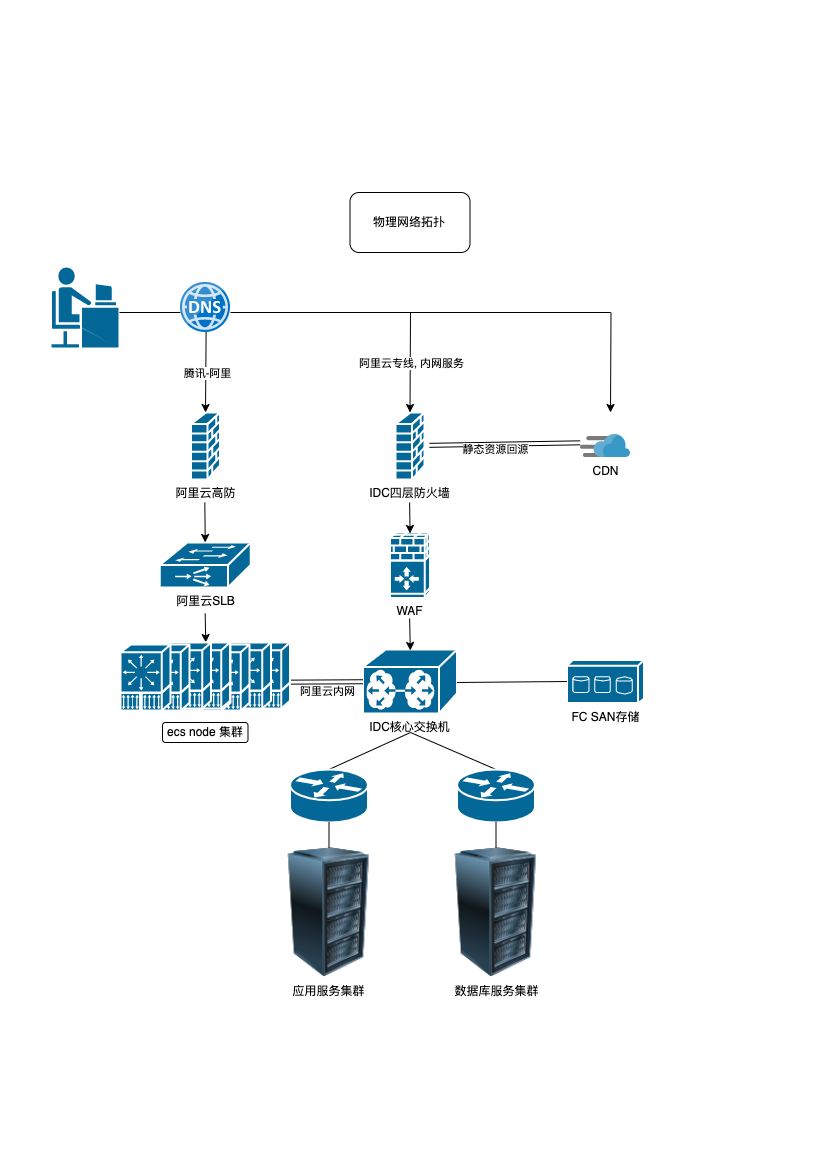
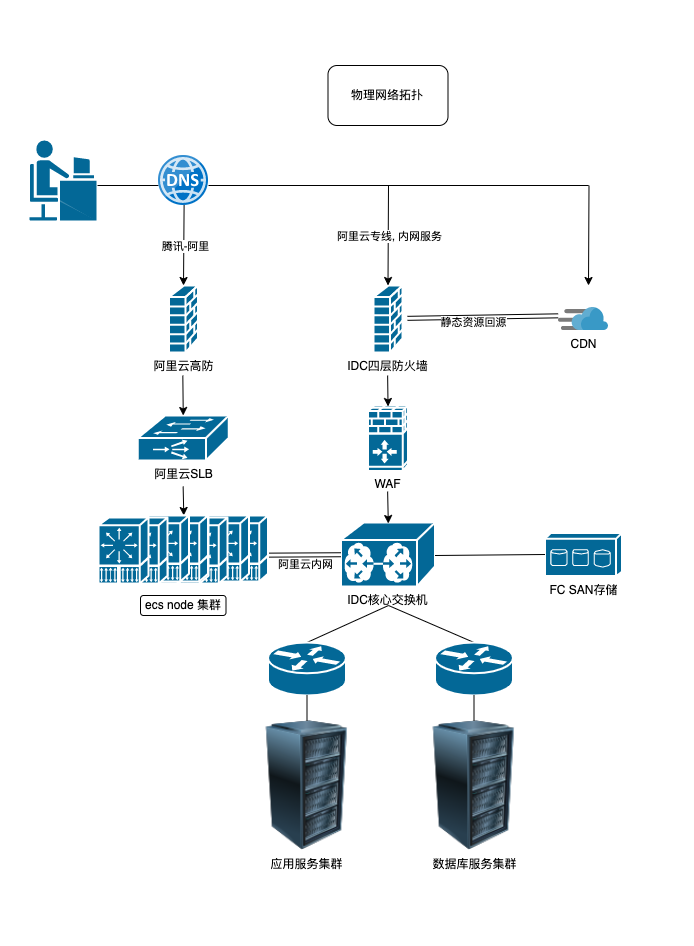
2022

diff --git a/js/index.min.js b/js/index.min.js
@@ -1,1 +1,1 @@
-window.mobilecheck=function(){var check=false;(function(a,b){if(/(android|bb\d+|meego).+mobile|avantgo|bada\/|blackberry|blazer|compal|elaine|fennec|hiptop|iemobile|ip(hone|od)|iris|kindle|lge |maemo|midp|mmp|mobile.+firefox|netfront|opera m(ob|in)i|palm( os)?|phone|p(ixi|re)\/|plucker|pocket|psp|series(4|6)0|symbian|treo|up\.(browser|link)|vodafone|wap|windows ce|xda|xiino/i.test(a)||/1207|6310|6590|3gso|4thp|50[1-6]i|770s|802s|a wa|abac|ac(er|oo|s\-)|ai(ko|rn)|al(av|ca|co)|amoi|an(ex|ny|yw)|aptu|ar(ch|go)|as(te|us)|attw|au(di|\-m|r |s )|avan|be(ck|ll|nq)|bi(lb|rd)|bl(ac|az)|br(e|v)w|bumb|bw\-(n|u)|c55\/|capi|ccwa|cdm\-|cell|chtm|cldc|cmd\-|co(mp|nd)|craw|da(it|ll|ng)|dbte|dc\-s|devi|dica|dmob|do(c|p)o|ds(12|\-d)|el(49|ai)|em(l2|ul)|er(ic|k0)|esl8|ez([4-7]0|os|wa|ze)|fetc|fly(\-|_)|g1 u|g560|gene|gf\-5|g\-mo|go(\.w|od)|gr(ad|un)|haie|hcit|hd\-(m|p|t)|hei\-|hi(pt|ta)|hp( i|ip)|hs\-c|ht(c(\-| |_|a|g|p|s|t)|tp)|hu(aw|tc)|i\-(20|go|ma)|i230|iac( |\-|\/)|ibro|idea|ig01|ikom|im1k|inno|ipaq|iris|ja(t|v)a|jbro|jemu|jigs|kddi|keji|kgt( |\/)|klon|kpt |kwc\-|kyo(c|k)|le(no|xi)|lg( g|\/(k|l|u)|50|54|\-[a-w])|libw|lynx|m1\-w|m3ga|m50\/|ma(te|ui|xo)|mc(01|21|ca)|m\-cr|me(rc|ri)|mi(o8|oa|ts)|mmef|mo(01|02|bi|de|do|t(\-| |o|v)|zz)|mt(50|p1|v )|mwbp|mywa|n10[0-2]|n20[2-3]|n30(0|2)|n50(0|2|5)|n7(0(0|1)|10)|ne((c|m)\-|on|tf|wf|wg|wt)|nok(6|i)|nzph|o2im|op(ti|wv)|oran|owg1|p800|pan(a|d|t)|pdxg|pg(13|\-([1-8]|c))|phil|pire|pl(ay|uc)|pn\-2|po(ck|rt|se)|prox|psio|pt\-g|qa\-a|qc(07|12|21|32|60|\-[2-7]|i\-)|qtek|r380|r600|raks|rim9|ro(ve|zo)|s55\/|sa(ge|ma|mm|ms|ny|va)|sc(01|h\-|oo|p\-)|sdk\/|se(c(\-|0|1)|47|mc|nd|ri)|sgh\-|shar|sie(\-|m)|sk\-0|sl(45|id)|sm(al|ar|b3|it|t5)|so(ft|ny)|sp(01|h\-|v\-|v )|sy(01|mb)|t2(18|50)|t6(00|10|18)|ta(gt|lk)|tcl\-|tdg\-|tel(i|m)|tim\-|t\-mo|to(pl|sh)|ts(70|m\-|m3|m5)|tx\-9|up(\.b|g1|si)|utst|v400|v750|veri|vi(rg|te)|vk(40|5[0-3]|\-v)|vm40|voda|vulc|vx(52|53|60|61|70|80|81|83|85|98)|w3c(\-| )|webc|whit|wi(g |nc|nw)|wmlb|wonu|x700|yas\-|your|zeto|zte\-/i.test(a.substr(0,4))){check=true}})(navigator.userAgent||navigator.vendor||window.opera);return check};$(document).ready(function(){if(mobilecheck()){$("html").addClass("mobile");$(".tag-panel").addClass("center")}else{var en=["Home","Work Experience","Open source project","Solve difficult problems","Independently completed architecture deployment","Contact Me"];var cn=["首页","工作经历","开源项目","解决的疑难问题","独立完成的架构部署","联系"];var isCn=window.location.href.indexOf("cn.html")>=0;$(".section").addClass("initing");$("#pagepiling").pagepiling({loopBottom:true,navigation:{"position":"left","tooltips":isCn?cn:en},onLeave:function(index,nextIndex,direction){var $pages=$(".section");for(var i=0;i<$pages.length;++i){if(i+1!==nextIndex){$($pages[i]).addClass("leaving")}else{$($pages[i]).removeClass("leaving")}}}});$(".initing").removeClass("initing")}});
+window.mobilecheck=function(){var check=false;(function(a,b){if(/(android|bb\d+|meego).+mobile|avantgo|bada\/|blackberry|blazer|compal|elaine|fennec|hiptop|iemobile|ip(hone|od)|iris|kindle|lge |maemo|midp|mmp|mobile.+firefox|netfront|opera m(ob|in)i|palm( os)?|phone|p(ixi|re)\/|plucker|pocket|psp|series(4|6)0|symbian|treo|up\.(browser|link)|vodafone|wap|windows ce|xda|xiino/i.test(a)||/1207|6310|6590|3gso|4thp|50[1-6]i|770s|802s|a wa|abac|ac(er|oo|s\-)|ai(ko|rn)|al(av|ca|co)|amoi|an(ex|ny|yw)|aptu|ar(ch|go)|as(te|us)|attw|au(di|\-m|r |s )|avan|be(ck|ll|nq)|bi(lb|rd)|bl(ac|az)|br(e|v)w|bumb|bw\-(n|u)|c55\/|capi|ccwa|cdm\-|cell|chtm|cldc|cmd\-|co(mp|nd)|craw|da(it|ll|ng)|dbte|dc\-s|devi|dica|dmob|do(c|p)o|ds(12|\-d)|el(49|ai)|em(l2|ul)|er(ic|k0)|esl8|ez([4-7]0|os|wa|ze)|fetc|fly(\-|_)|g1 u|g560|gene|gf\-5|g\-mo|go(\.w|od)|gr(ad|un)|haie|hcit|hd\-(m|p|t)|hei\-|hi(pt|ta)|hp( i|ip)|hs\-c|ht(c(\-| |_|a|g|p|s|t)|tp)|hu(aw|tc)|i\-(20|go|ma)|i230|iac( |\-|\/)|ibro|idea|ig01|ikom|im1k|inno|ipaq|iris|ja(t|v)a|jbro|jemu|jigs|kddi|keji|kgt( |\/)|klon|kpt |kwc\-|kyo(c|k)|le(no|xi)|lg( g|\/(k|l|u)|50|54|\-[a-w])|libw|lynx|m1\-w|m3ga|m50\/|ma(te|ui|xo)|mc(01|21|ca)|m\-cr|me(rc|ri)|mi(o8|oa|ts)|mmef|mo(01|02|bi|de|do|t(\-| |o|v)|zz)|mt(50|p1|v )|mwbp|mywa|n10[0-2]|n20[2-3]|n30(0|2)|n50(0|2|5)|n7(0(0|1)|10)|ne((c|m)\-|on|tf|wf|wg|wt)|nok(6|i)|nzph|o2im|op(ti|wv)|oran|owg1|p800|pan(a|d|t)|pdxg|pg(13|\-([1-8]|c))|phil|pire|pl(ay|uc)|pn\-2|po(ck|rt|se)|prox|psio|pt\-g|qa\-a|qc(07|12|21|32|60|\-[2-7]|i\-)|qtek|r380|r600|raks|rim9|ro(ve|zo)|s55\/|sa(ge|ma|mm|ms|ny|va)|sc(01|h\-|oo|p\-)|sdk\/|se(c(\-|0|1)|47|mc|nd|ri)|sgh\-|shar|sie(\-|m)|sk\-0|sl(45|id)|sm(al|ar|b3|it|t5)|so(ft|ny)|sp(01|h\-|v\-|v )|sy(01|mb)|t2(18|50)|t6(00|10|18)|ta(gt|lk)|tcl\-|tdg\-|tel(i|m)|tim\-|t\-mo|to(pl|sh)|ts(70|m\-|m3|m5)|tx\-9|up(\.b|g1|si)|utst|v400|v750|veri|vi(rg|te)|vk(40|5[0-3]|\-v)|vm40|voda|vulc|vx(52|53|60|61|70|80|81|83|85|98)|w3c(\-| )|webc|whit|wi(g |nc|nw)|wmlb|wonu|x700|yas\-|your|zeto|zte\-/i.test(a.substr(0,4))){check=true}})(navigator.userAgent||navigator.vendor||window.opera);return check};$(document).ready(function(){if(mobilecheck()){$("html").addClass("mobile");$(".tag-panel").addClass("center")}else{var en=["Home","Work Experience","Open source project","Solve difficult problems","Distributed architecture completed independently in 2019","Physical topology of highly available distributed architecture in 2022","Logic topology of highly available distributed architecture in 2022","Contact Me"];var cn=["首页","工作经历","开源项目","解决的疑难问题","2019年独立完成的分布式架构","2022年高可用分布式架构物理拓扑图","2022年高可用分布式架构逻辑拓扑图", "联系"];var isCn=window.location.href.indexOf("cn.html")>=0;$(".section").addClass("initing");$("#pagepiling").pagepiling({loopBottom:true,navigation:{"position":"left","tooltips":isCn?cn:en},onLeave:function(index,nextIndex,direction){var $pages=$(".section");for(var i=0;i<$pages.length;++i){if(i+1!==nextIndex){$($pages[i]).addClass("leaving")}else{$($pages[i]).removeClass("leaving")}}}});$(".initing").removeClass("initing")}});

diff --git a/index.html b/index.html
@@ -59,7 +59,6 @@
                 <p>2020.6 - 2022.6</p>
                 <p>Technology Stack：PHP, Golang, Lua, JS, Nginx, Openresty, VeryNginx, Dokcer, Dokcer-compose, Compose, Git, Gitlab, Gitlab-runner, Xhprof, Xhgui, Elasticsearch, Filebate, Grafana, Mysql, Redis, Memcached, Beanstalkd, Supervisord, Etcd, Mongodb, Go-cache, BigCache, Beego, Gin, Gin-vue-admin, Gorm, Kafka, Zabbix, GRPC, Proto, PProf, Consul, Nacos</p>
 
-                <h1>Work Experience</h1>
                 <h4>Hang Zhou Tian Zuan</h4>
                 <h3>Technical Director</h3>
                 <p>2018.11 - 2020.6</p>
@@ -159,7 +158,7 @@
             <div class="section center" style="vertical-align:auto;">
                 <h1>Physical topology of highly available distributed architecture in 2022</h1>
                 <!-- <img src="img/physical network topology.png?1" height="45%" width="60%"  class="smallimg" /> -->
-                <img src="https://pic.imgdb.cn/item/6306134816f2c2beb1addb29.png" height="45%" width="45%"  class="smallimg" />
+                <img src="https://pic.imgdb.cn/item/6306193816f2c2beb1b26c76.png" height="45%" width="45%"  class="smallimg" />
             </div>
 
             <div class="section center" style="vertical-align:auto;">

diff --git a/cn.html b/cn.html
@@ -60,7 +60,6 @@
                 <p>2020.6 - 2022.6<p>
                 <p>技术栈：PHP, Golang, Lua, JS, Nginx, Openresty, VeryNginx, Dokcer, Dokcer-compose, Compose, Git, Gitlab, Gitlab-runner, Xhprof, Xhgui, Elasticsearch, Filebate, Grafana, Mysql, Redis, Memcached, Beanstalkd, Supervisord, Etcd, Mongodb, Go-cache, BigCache, Beego, Gin, Gin-vue-admin, Gorm, Kafka, Zabbix, GRPC, Proto, PProf, Consul, Nacos</p>
 
-                <h1>工作经历</h1>
                 <h4>杭州天钻网络</h4>
                 <h3>技术总监</h3>
                 <p>2018.11 - 2020.6</p>
@@ -159,7 +158,7 @@
             <div class="section center" style="vertical-align:auto;">
                 <h1>2022年高可用分布式架构物理拓扑图</h1>
                 <!-- <img src="img/physical network topology.png?1" height="45%" width="60%"  class="smallimg" /> -->
-                <img src="https://pic.imgdb.cn/item/6306134816f2c2beb1addb29.png" height="45%" width="45%"  class="smallimg" />
+                <img src="https://pic.imgdb.cn/item/6306193816f2c2beb1b26c76.png" height="45%" width="45%"  class="smallimg" />
             </div>
 
             <div class="section center" style="vertical-align:auto;">
